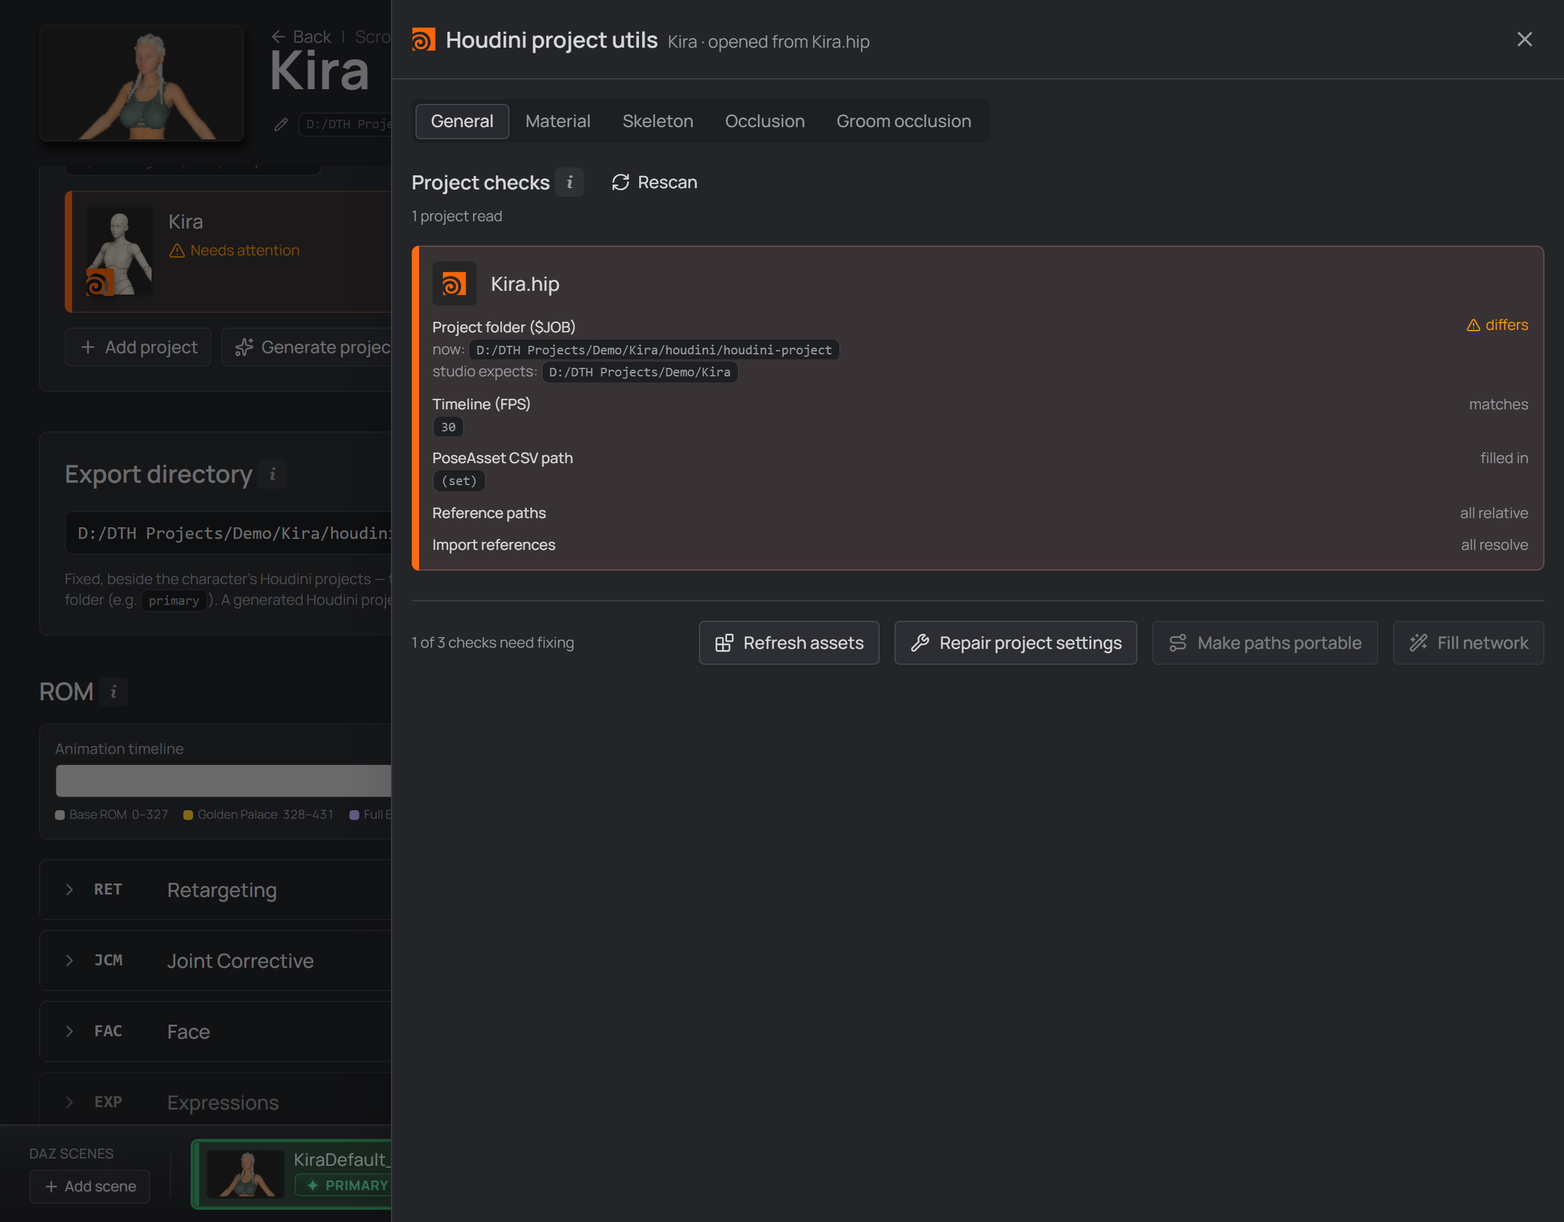
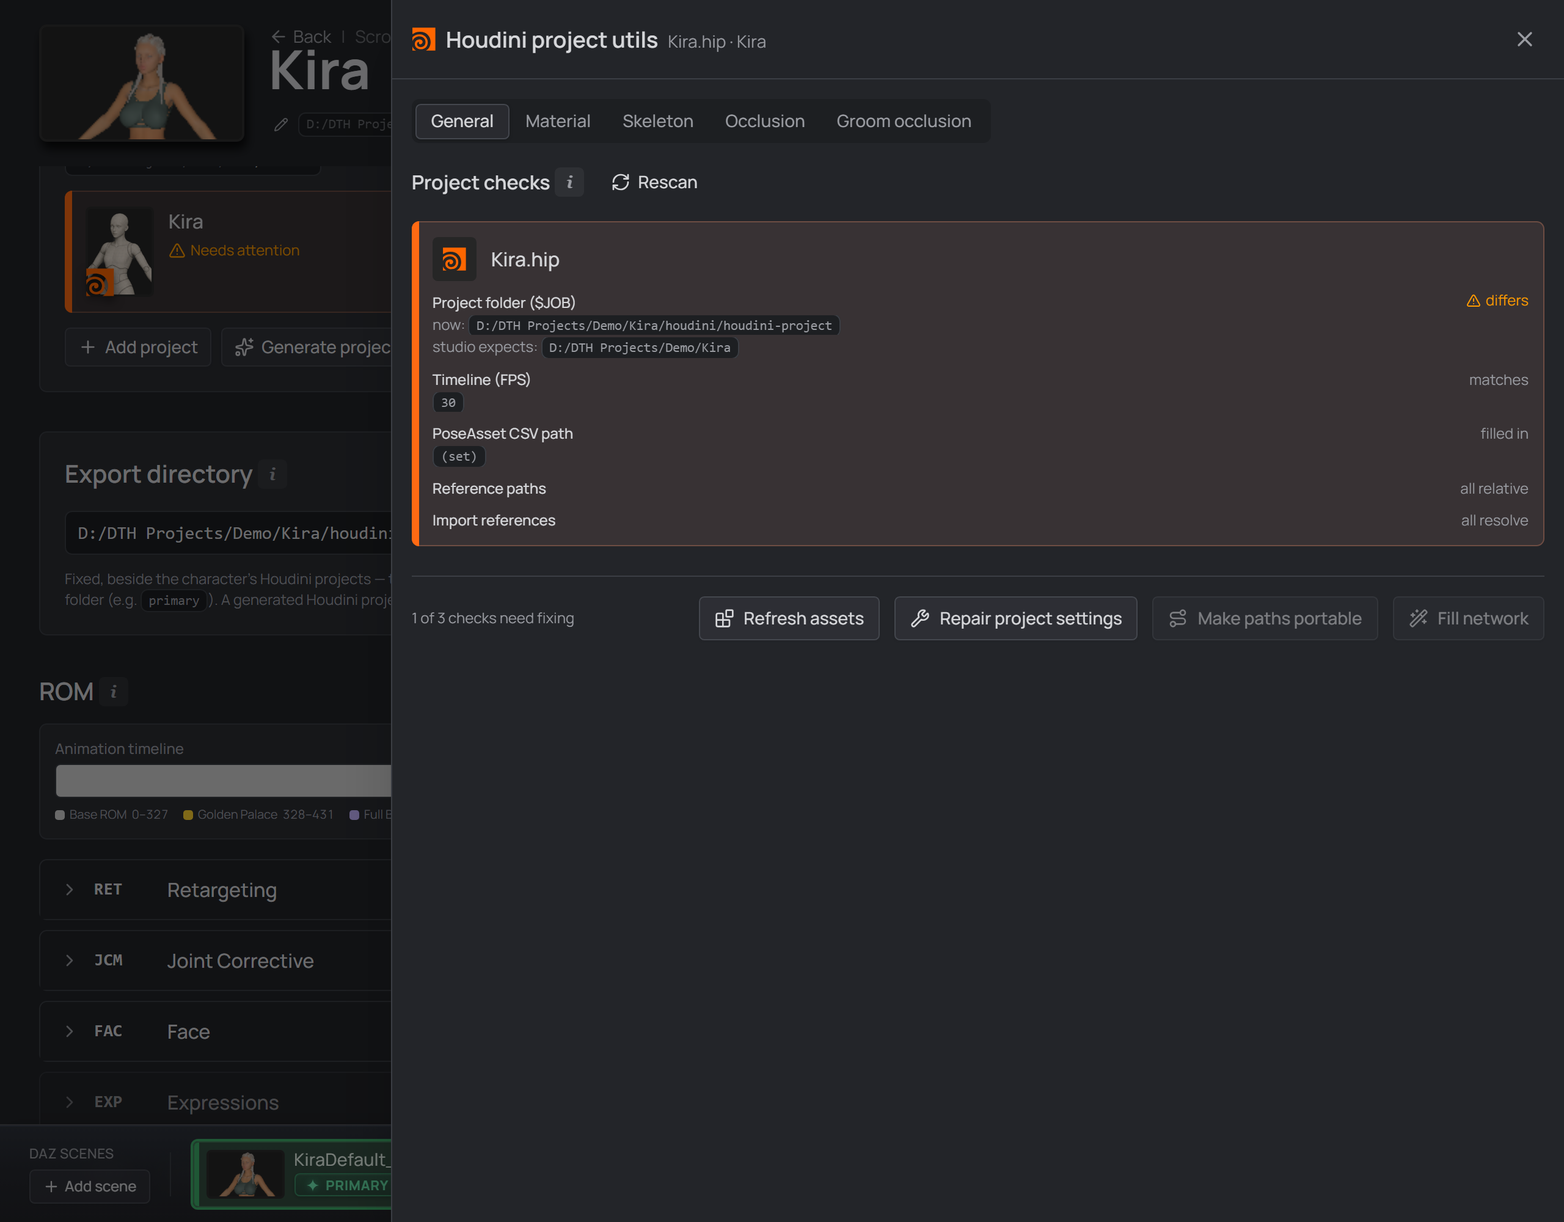
feat(web): Houdini project utils act on the project they were opened from
Utils are per project — that is why the wrench is on the project card and not on
the section header. The drawer treated that as a starting point rather than a
scope: it noted "opened from Kira.hip" in its title and then listed every Houdini
project the character had, offering their checks, their repairs and their nodes
as transfer targets. Pressing Utils on one card put the user in front of work
belonging to three others.

The fix is one line of data and a lot of wording: `targets` is `[targetHip]`, not
`character.houdiniProjects`. Everything downstream already reads `targetScan`, so
narrowing the input scopes the whole drawer — one project's checks, one project's
nodes, one project's repairs.

`initialHipPath?` becomes a REQUIRED `targetHip`. It was optional because it only
seeded a preselection; it is now the drawer's entire subject, and the type should
say so rather than leave a project-less drawer representable. (Named `targetHip`,
not `hipPath`: `no-shadow` is an error here and a dozen callbacks bind `hipPath`.)

The trap this could have shipped with: `fetchCachedHoudiniScans` answers for the
character's WHOLE set, and `loadCachedTargets` returned it verbatim when nothing
needed scanning. Narrowing the scan alone would have left the other projects on
screen, served from the cache — so the cached list is filtered to the target too.
The smoke pins exactly that, from a store that HAS the other project's nodes.
[…]

diff --git a/apps/web/src/components/character/houdini-utils-panel.tsx b/apps/web/src/components/character/houdini-utils-panel.tsx
@@ -395,8 +395,11 @@ export function HoudiniUtilsPanel({
   open,
   onClose,
   character,
-  /** The card the panel was opened from — its nodes start selected. */
-  initialHipPath,
+  /** The ONE project this drawer acts on — the card its Utils button was
+   *  pressed on. Required, because that is the whole scope of the drawer: every
+   *  check, every repair and every transfer target below belongs to this `.hip`
+   *  and no other. */
+  targetHip,
   /** The owning project — used to offer its Houdini template attachments. */
   projectId,
   /** The character's own folder — what `$JOB` should be (v0.64). */
@@ -405,12 +408,24 @@ export function HoudiniUtilsPanel({
   open: boolean
   onClose: () => void
   character: Character
-  initialHipPath?: string
+  targetHip: string
   projectId?: string
   charFolder?: string
 }) {
-  // --- target side: this character's own projects ---------------------------
-  const targets = character.houdiniProjects
+  // --- target side: the ONE project this drawer was opened for ---------------
+  //
+  // Not `character.houdiniProjects`. Houdini project utils are PER PROJECT —
+  // that is why the button lives on the project card and not on the section
+  // header — so listing the character's other projects here offered repairs and
+  // transfer targets the user never asked about, three clicks away from the
+  // card they actually pressed. Everything downstream reads `targetScan`, so
+  // narrowing the input scopes the whole drawer: one project's checks, one
+  // project's nodes, one project's repairs.
+  //
+  // The SOURCE side is deliberately still cross-project — copying a setup means
+  // copying it FROM somewhere else, which is the one thing here that legitimately
+  // names another project.
+  const targets = [targetHip]
   const [targetScan, setTargetScan] = useState<ScanState>(EMPTY_SCAN)
   const [selectedTargets, setSelectedTargets] = useState<ReadonlySet<string>>(new Set())
 
@@ -534,13 +549,7 @@ export function HoudiniUtilsPanel({
       // button that did nothing. Which is exactly how this read before it could
       // force at all: the cache answered in ten milliseconds and the spinner
       // never became visible. Say it ran.
-      if (force) {
-        utilsToast.success(
-          projects.length === 1
-            ? 'Rescanned the Houdini project'
-            : `Rescanned ${projects.length} Houdini projects`,
-        )
-      }
+      if (force) utilsToast.success('Rescanned the Houdini project')
       return projects
     } catch (error) {
       const message = error instanceof Error ? error.message : String(error)
@@ -580,7 +589,13 @@ export function HoudiniUtilsPanel({
     // Nudge the sweep in case this drawer was reached without the page mounting
     // one (it coalesces, so an already-running sweep is joined, not doubled).
     void scanCharacterHoudiniProjects({ data: { projectId, id: character.id } })
-    const cached = await fetchCachedHoudiniScans({ data: { projectId, id: character.id } })
+    const allCached = await fetchCachedHoudiniScans({ data: { projectId, id: character.id } })
+    // The store answers for every project of the character, so it has to be
+    // narrowed to THIS one before anything is shown — otherwise scoping the scan
+    // would still leave the character's other projects on screen, served from
+    // the cache, which is the exact thing this drawer stopped doing.
+    const wanted = new Set(targets.map((t) => normalizePath(t).toLowerCase()))
+    const cached = allCached.filter((p) => wanted.has(normalizePath(p.hipPath).toLowerCase()))
     const covered = new Set(cached.map((p) => normalizePath(p.hipPath).toLowerCase()))
     const uncovered = targets.filter((t) => !covered.has(normalizePath(t).toLowerCase()))
     if (uncovered.length === 0) {
@@ -616,18 +631,18 @@ export function HoudiniUtilsPanel({
     if (!open) return
     void (async () => {
       const projects = await loadCachedTargets()
-      // Preselect the card's own nodes — the panel was opened FROM that project.
-      const from = initialHipPath
-      if (!from) return
+      // Every node of the project starts ticked. There is only one project now,
+      // so this is no longer "find the card's own project among the others" —
+      // it is simply "select what this drawer is for".
       const match = projects.find(
-        (p) => normalizePath(p.hipPath).toLowerCase() === normalizePath(from).toLowerCase(),
+        (p) => normalizePath(p.hipPath).toLowerCase() === normalizePath(targetHip).toLowerCase(),
       )
       if (match) {
         setSelectedTargets(new Set(match.nodes.map((n) => nodeKey(match.hipPath, n.path))))
       }
     })()
     // eslint-disable-next-line react-hooks/exhaustive-deps
-  }, [open, targetsKey, initialHipPath])
+  }, [open, targetsKey])
 
   // Candidate source characters: everything the studio can reach that actually
   // HAS a Houdini project, minus this character (copying onto itself is refused
@@ -1330,9 +1345,12 @@ export function HoudiniUtilsPanel({
             <img src={houdiniLogo} alt="" aria-hidden className="size-5 shrink-0 object-contain" />
             <span className="truncate">
               Houdini project utils
+              {/* The PROJECT is the subject, not the character — the drawer acts
+                  on this one `.hip` and nothing else, so its name belongs in the
+                  title rather than as an "opened from" aside next to a character
+                  who may own several. */}
               <span className="ml-2 text-sm font-normal text-muted-foreground">
-                {character.name}
-                {initialHipPath ? ` · opened from ${fileName(initialHipPath)}` : ''}
+                {fileName(targetHip)} · {character.name}
               </span>
             </span>
           </span>
@@ -1397,15 +1415,14 @@ export function HoudiniUtilsPanel({
               <Label className="mb-1 flex w-fit items-center gap-1 text-base font-semibold">
                 Target
                 <InfoPopup label="Target — more information">
-                  This character&apos;s linked Houdini projects and the DazToHue material nodes
-                  found in each. Select every node that should receive the copied bakers.
+                  The DazToHue material nodes in <strong>this</strong> project. Select every node
+                  that should receive the copied bakers. Utils act on the one project you opened
+                  them from — to work on another, open its own card&apos;s Utils.
                 </InfoPopup>
               </Label>
               <div className="mb-2 flex items-center gap-2">
-                <span className="text-xs text-muted-foreground">
-                  {targets.length === 0
-                    ? 'No Houdini projects linked to this character.'
-                    : `${targets.length} linked project${targets.length === 1 ? '' : 's'}`}
+                <span className="truncate text-xs text-muted-foreground" title={targetHip}>
+                  {fileName(targetHip)}
                 </span>
                 <Button
                   variant="ghost"
@@ -2435,9 +2452,10 @@ function GeneralTab({
 }) {
   return (
     <div className="space-y-4">
-      {/* Title + Rescan on one line, the count beneath — one block, so the
-          section's `space-y-4` keeps its distance from the cards below while
-          the count stays tight under its own heading. */}
+      {/* Title + Rescan on one line. There used to be a "N projects read" count
+          under it, from when this tab listed the character's whole set; with one
+          project it only ever said "1 project read" — and the card below already
+          names it. */}
       <div>
         <div className="flex flex-wrap items-center gap-x-3 gap-y-1">
           <Label className="flex w-fit items-center gap-1 text-base font-semibold">
@@ -2478,9 +2496,6 @@ function GeneralTab({
             <RefreshCw className={scan.loading ? 'animate-spin' : ''} /> Rescan
           </Button>
         </div>
-        <p className="mt-1 text-xs text-muted-foreground">
-          {scan.projects.length} project{scan.projects.length === 1 ? '' : 's'} read
-        </p>
       </div>
 
       {scan.loading ? (

diff --git a/apps/web/smoke/houdini-project-health.smoke.ts b/apps/web/smoke/houdini-project-health.smoke.ts
@@ -124,12 +124,15 @@ function linkOutside(seed: { files: Record<string, string> }) {
   seed.files[charPath] = JSON.stringify(char)
 }
 
-test('the drawer merges the store with a scan of what it does not cover', async ({ page }) => {
+test('the drawer scans the project it was opened from when the store cannot answer', async ({
+  page,
+}) => {
   // One linked project the store answers for (inside the character folder,
   // fresh entry) and one it cannot answer for yet (linked from outside — the
-  // sweep skips those by design). The drawer must show BOTH: the cache is only
-  // an answer for the projects it covers, and a partial cache silently hiding
-  // a linked project from the node lists and the repairs was a real bug.
+  // sweep skips those by design). Opening the drawer on the UNCOVERED one has
+  // to scan it there and then: a cache is only an answer for what it covers,
+  // and a partial cache silently hiding a project's nodes and repairs was a
+  // real bug.
   const seed = buildSeed({ activeProjectFile: P.dcsp, demo: true, houdiniProject: true })
   // hython configured, so the drawer CAN scan the uncovered link itself.
   const settingsPath = `${P.appData}/settings.json`
@@ -164,15 +167,17 @@ test('the drawer merges the store with a scan of what it does not cover', async 
   await page.getByRole('link', { name: /Kira/ }).click()
   await expect(page.getByText(/custom ROM frames/)).toBeVisible()
 
-  // Two cards, two Utils buttons — either opens the same drawer.
-  await page.getByRole('button', { name: /^Utils/ }).first().click()
+  // Two cards, two Utils buttons — each opens the drawer ON ITS OWN PROJECT.
+  // The second card is the outside link, which the store cannot answer for.
+  await page.getByRole('button', { name: /^Utils/ }).nth(1).click()
   const drawer = page.getByRole('dialog')
   await drawer.getByRole('tab', { name: 'Material' }).click()
 
-  // The cached project, served from the store…
-  await expect(drawer.getByText('CachedBox')).toBeVisible()
-  // …and the outside link, scanned on the spot and merged in.
+  // Scanned on the spot, because the store has nothing for this one.
   await expect(drawer.getByText('ScannedBox')).toBeVisible()
+  // And the character's OTHER project is not here at all — utils are per
+  // project, so the cached one is none of this drawer's business.
+  await expect(drawer.getByText('CachedBox')).toHaveCount(0)
 
   // The drawer's own scan persisted under the CHARACTER's store — target scans
   // carry the character scope, so what the drawer earns is what the card badge
@@ -184,7 +189,7 @@ test('the drawer merges the store with a scan of what it does not cover', async 
     .toContain('g9_skin_base')
 })
 
-test('a store that covers every linked project serves the drawer without a scan', async ({
+test('a stored scan serves the drawer without hython — and only for THIS project', async ({
   page,
 }) => {
   // Both projects fresh in the store — the outside one earned by a previous
@@ -192,6 +197,11 @@ test('a store that covers every linked project serves the drawer without a scan'
   // throw drawer-earned scans away). No hython is configured here, so if the
   // drawer tried to scan ANYTHING the picker would show an error instead of
   // these nodes.
+  //
+  // It also pins the scoping the other way round from the spec above: the store
+  // HAS the other project's nodes and hands them over on request, so a drawer
+  // still listing them would be an easy accident. Utils are per project — the
+  // card you pressed is the whole subject.
   const seed = buildSeed({ activeProjectFile: P.dcsp, demo: true, houdiniProject: true })
   linkOutside(seed)
   seed.files[STORE] = JSON.stringify({
@@ -224,7 +234,7 @@ test('a store that covers every linked project serves the drawer without a scan'
   await drawer.getByRole('tab', { name: 'Material' }).click()
 
   await expect(drawer.getByText('CachedBox')).toBeVisible()
-  await expect(drawer.getByText('OutsideBox')).toBeVisible()
+  await expect(drawer.getByText('OutsideBox')).toHaveCount(0)
 })
 
 test('unresolved imports and blank parms are both named', async ({ page }) => {

diff --git a/apps/web/src/components/houdini-projects-field.tsx b/apps/web/src/components/houdini-projects-field.tsx
@@ -696,9 +696,11 @@ export function HoudiniProjectsField({
         <HoudiniUtilsPanel
           open
           character={character}
-          initialHipPath={utilsFor}
+          // The drawer acts on THIS project alone — `utilsFor` is the card whose
+          // Utils button was pressed, and it is the drawer's entire scope.
+          targetHip={utilsFor}
           projectId={projectId}
-          // The General tab checks each project's `$JOB`, which should be the
+          // The General tab checks the project's `$JOB`, which should be the
           // CHARACTER folder (v0.64).
           charFolder={charFolder}
           onClose={() => {

diff --git a/docs/guide/houdini-utils.md b/docs/guide/houdini-utils.md
@@ -1,10 +1,16 @@
 # The Utils drawer
 
 Every Houdini project card on the character page carries a **Utils** button (the
-🔧 that appears on hover). It opens a drawer with a tab per job:
+🔧 that appears on hover). It opens a drawer with a tab per job.
 
-- **General** — the health check of the projects themselves, and the repairs for
-  what it finds. The tab it opens on, and the only one useful without a second
+**The drawer works on that one project.** Utils are per project — that is why the
+button lives on the card rather than on the section — so everything inside is
+about the `.hip` you pressed it on: its checks, its repairs, its nodes. To work
+on another project, open its own card's Utils. (The one exception is the
+**source** of a copy, which is by definition another project.)
+
+- **General** — the health check of the project itself, and the repairs for
+  what it finds. The tab it opens on, and the only one useful without a source
   project picked.
 - **Material**, **Skeleton**, **Occlusion** and **Groom occlusion** — copy a
   node's **complete setup** from one project into another. One tab per DazToHue
@@ -27,7 +33,7 @@ hand.
 <p align="center">
   <img width="900" alt="the Utils drawer: target projects, source project and what to copy" src="screenshots/houdini-utils-drawer.png" />
   <br>
-  <sub><em>The Utils drawer: the character's own projects as targets, a browsed project as the source, and what travels.</em></sub>
+  <sub><em>The Utils drawer: this project's nodes as targets, a browsed project as the source, and what travels.</em></sub>
 </p>
 
 - **Target** — this character's linked Houdini projects, with every DazToHue
@@ -254,8 +260,8 @@ depend on each other.
 
 ## The General tab
 
-The tab the drawer opens on, and the only one useful without a second project
-picked: what each linked project carries **now**, and what the studio can put
+The tab the drawer opens on, and the only one useful without a source project
+picked: what this project carries **now**, and what the studio can put
 right. Every check is one row — its name on the left, the verdict on the right,
 the value beneath — and the fixes sit in the footer, in the order they have to
 be run. (**Refresh assets** leads them but answers to no check; see below.)
@@ -381,8 +387,7 @@ repaired: it is *unknown*, not wrong.
 DazToHue asset definitions it was built with, so switching your installed
 DazToHue release leaves every project you already have on the old ones —
 DazToHue's own answer to that is the **Refresh Assets** tool on its shelf. This
-button runs *that tool*, on every project the scan could open, without you
-opening each one in Houdini.
+button runs *that tool* on this project, without you opening it in Houdini.
 
 Three things it does **not** do, because it can't:
 
@@ -392,7 +397,7 @@ Three things it does **not** do, because it can't:
   know you changed DazToHue.
 - **It can't preview.** The studio runs DazToHue's tool rather than doing the
   refresh itself, so it has no idea in advance what will change. The **Dry run**
-  still opens each project and runs the tool — it simply never saves the file.
+  still opens the project and runs the tool — it simply never saves the file.
   That is a weaker promise than the other dry runs' *nothing was written*, and
   the dialog says so.
 - **It won't tell you it worked.** The report names the shelf tool that ran and

diff --git a/.ai/architecture.md b/.ai/architecture.md
@@ -315,16 +315,24 @@ Three consequences worth knowing before touching this:
   serialized per file and fold into a fresh read (`queueScanStoreWrite`): a scan
   holds no store open across its hython run, so two workers finishing together
   append instead of last-writer-wins.
+- **The Utils drawer is scoped to ONE project** — the card its button was pressed
+  on, passed as the required `targetHip`. Utils are per project (that is why the
+  button is on the card, not the section header), so `targets` is `[targetHip]`
+  and not `character.houdiniProjects`. Everything downstream reads `targetScan`,
+  so narrowing that input scopes the whole drawer: one project's checks, nodes
+  and repairs. Two traps: `fetchCachedHoudiniScans` answers for the character's
+  WHOLE set, so its result must be filtered to the target before it is shown, or
+  the cache puts the other projects back on screen; and the transfer SOURCE stays
+  cross-project on purpose — copying a setup means copying it from somewhere else.
 - **The drawer reads the store** (`fetchCachedHoudiniScans`) **and scans only
   what it doesn't cover** — an outside-folder link (never swept), a `.hip` saved
-  since the last sweep — then merges, so a partial cache never hides a linked
-  project from the node lists or the repairs. Target scans pass the character
-  scope, so drawer-earned results land in the character's store, not the shared
-  source store — including an outside link's, which the sweep's prune keeps
-  (the keep-list is everything still LINKED), so it costs one scan, not one per
-  open. It briefly POLLED for the sweep instead; that is wrong, because
-  waiting is only safe if a sweep is guaranteed to deliver and it is not
-  (external project, no Houdini configured).
+  since the last sweep — so a partial cache never hides the project's nodes or
+  repairs. Target scans pass the character scope, so drawer-earned results land
+  in the character's store, not the shared source store — including an outside
+  link's, which the sweep's prune keeps (the keep-list is everything still
+  LINKED), so it costs one scan, not one per open. It briefly POLLED for the
+  sweep instead; that is wrong, because waiting is only safe if a sweep is
+  guaranteed to deliver and it is not (external project, no Houdini configured).
 - **The cache may never fail a scan.** Resolving the store path was once
   unguarded and took the drawer's whole project list down with it. A broken cache
   degrades to "no cache", never to "no scan".

diff --git a/.changeset/houdini-utils-single-project.md b/.changeset/houdini-utils-single-project.md
@@ -1,0 +1,30 @@
+---
+'@dth/web': minor
+---
+
+**The Houdini Utils drawer now works on the one project you opened it from.**
+
+Utils are per project — that is why the 🔧 lives on the project card and not on
+the section header. The drawer took that as a starting point rather than a scope:
+it noted *"opened from Kira.hip"* in its title and then listed every Houdini
+project the character had, offering their checks, their repairs and their nodes
+as transfer targets. Pressing Utils on one card put you in front of work
+belonging to three others.
+
+Now the card you pressed is the whole subject. The General tab checks that
+project and repairs that project; **Refresh assets**, **Repair project
+settings**, **Make paths portable** and **Fill network** act on it alone; and the
+transfer target is its own DazToHue nodes. To work on another project, open its
+own card's Utils.
+
+The **source** of a copy is unchanged and still cross-project — copying a setup
+means copying it *from* somewhere else, which is the one thing here that
+legitimately names another project.
+
+Two side effects worth knowing:
+
+- Opening the drawer is cheaper. It used to scan every linked project the cache
+  could not answer for; now it scans at most one.
+- Copying one source setup into several projects in a single run is gone. It was
+  only reachable by ticking targets across projects in a drawer opened from one
+  of them — do it per project instead.
